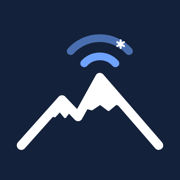
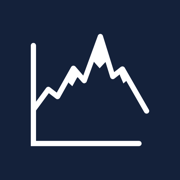
Ny logga: snötäckt berg ritat som linjediagram
Ny appikon, maskable-ikon, apple-touch-ikon och transparent logga i
sidhuvudet och som favicon. Service workerns cache höjs till v4 så att
installerade appar får de nya ikonerna.

Changed region(s): [[0.0833, 0.1667, 0.9167, 0.8333]]

diff --git a/index.html b/index.html
@@ -64,8 +64,8 @@ a{color:var(--snow)}
 
 header.top{display:flex;align-items:flex-end;justify-content:space-between;gap:12px;flex-wrap:wrap}
 .brand h1{font-size:28px;font-weight:900;letter-spacing:.01em}
-.brand h1 .logo{width:52px;height:43px;vertical-align:-8px;margin-right:8px}
-.logo .arc{stroke:var(--snow)} .logo .ink-s{stroke:var(--ink)} .logo .ink-f{fill:var(--ink)}
+.brand h1 .logo{width:40px;height:39px;vertical-align:-6px;margin-right:10px}
+.logo .ink-s{stroke:var(--ink)} .logo .ink-f{fill:var(--ink)}
 .brand h1 span{color:var(--snow)}
 .brand p{margin:2px 0 0;color:var(--muted);font-size:13px}
 .updated{font-size:12px;color:var(--muted)}
@@ -233,14 +233,10 @@ details.sig p{margin:0 0 12px 90px;font-size:14px;color:var(--muted);max-width:7
 <div class="wrap">
   <header class="top">
     <div class="brand">
-      <h1><svg class="logo" viewBox="44 66 424 352" aria-hidden="true">
-    <path d="M239.4 165.9 A60 60 0 0 1 328.6 165.9" fill="none" class="arc" stroke-width="22" stroke-linecap="round"/>
-    <path d="M200.8 131.1 A112 112 0 0 1 367.2 131.1" fill="none" class="arc" stroke-width="22" stroke-linecap="round" opacity=".6"/>
-    <g transform="translate(343.4 111) scale(.44) translate(-343.4 -111)">
-    <path d="M343.4 86.0 L343.4 136.0 M365.1 98.5 L321.7 123.5 M365.1 123.5 L321.7 98.5" fill="none" class="ink-s" stroke-width="13" stroke-linecap="round"/>
-    </g>
-    <path d="M60 400 L176 270 L222 318 L284 206 L452 400" fill="none" class="ink-s" stroke-width="26" stroke-linejoin="round" stroke-linecap="round"/>
-    <path d="M284 206 L356.7 290 L330.5 280 L309.0 298 L285.2 280 L261.3 296 L237.5 290 ZM176 270 L214.3 310 L198.0 300 L184.7 318 L169.9 300 L155.1 316 L140.3 310 Z" class="ink-f" class="ink-s" stroke-width="8" stroke-linejoin="round"/>
+      <h1><svg class="logo" viewBox="0 0 900 870" aria-hidden="true">
+    <path d="M40 110 V820 H805" fill="none" class="ink-s" stroke-width="38" stroke-linecap="round" stroke-linejoin="miter"/>
+    <path d="M40 575 L148 428 L215 480 L330 275 L408 365 L525 45 L615 335 L685 280 L860 585" fill="none" class="ink-s" stroke-width="38" stroke-linecap="round" stroke-linejoin="round"/>
+    <path d="M472 210 L525 45 L585 215 L560 232 L520 275 L480 230 Z M300 355 L330 275 L370 330 L355 345 L322 405 L295 380 Z M660 300 L685 280 L715 320 L712 368 L692 385 L668 330 Z" class="ink-f"/>
       </svg>Yuki <span>Radar</span></h1>
       <p>Pudersnö, lavinläge och ställplatser för skidresan i Japan, Skandinavien och Alperna</p>
     </div>

diff --git a/sw.js b/sw.js
@@ -9,7 +9,7 @@
      at most TILE_MAX of them (oldest removed first).
    - Google Maps tiles and scripts are never cached (Google's terms): they go straight to the network.
    Bump VERSION when this file or the precache list changes; the app then offers "Ny version finns". */
-const VERSION = "v3";
+const VERSION = "v4";
 const SHELL = "yuki-shell-" + VERSION;
 const LIBS = "yuki-libs-" + VERSION;
 const DATA = "yuki-data";
